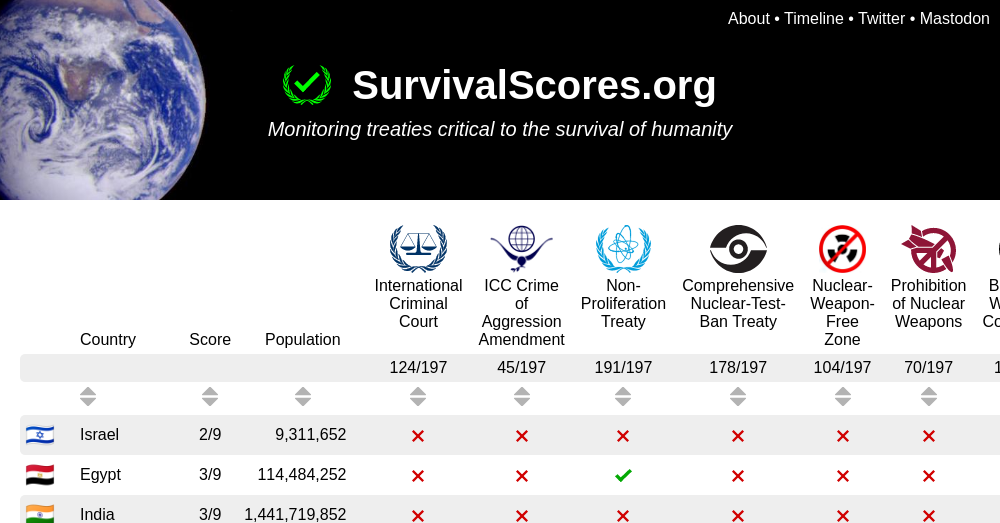
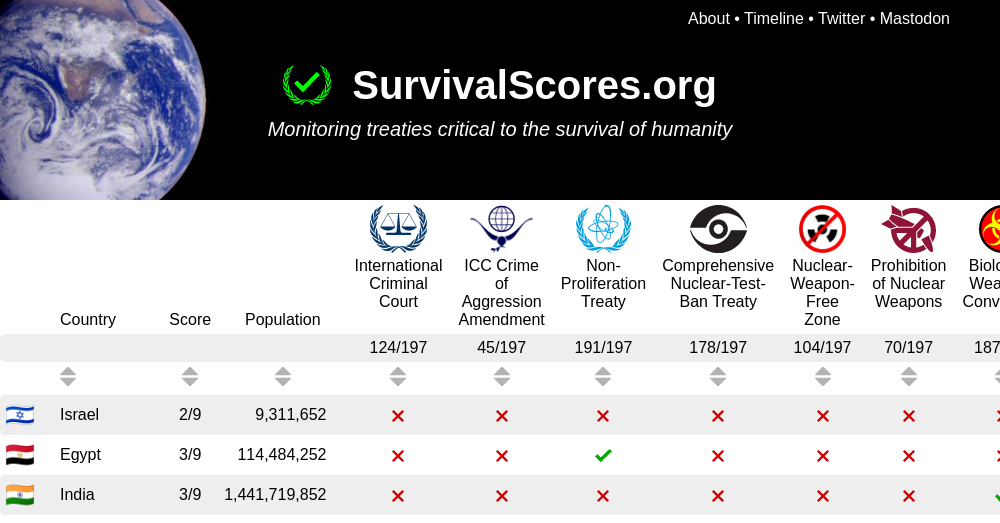
Deploying to gh-pages from @ arthuredelstein/survivalscores.org@348ec34a018b62b636337d9d978c01cf6f0f4265 🚀

diff --git a/index.html b/index.html
@@ -22,14 +22,25 @@ table {
   position: relative;
   border-collapse: collapse;
 }
+#title-background {
+  position: fixed;
+  left: 0px;
+  right: 0px;
+  top: 0px;
+  height: 200px;
+  background-color: black;
+  z-index: -100
+}
 .table-container {
   background-color: white;
   z-index: 20;
   position: relative;
-  top: 200px;
+  width: 100%;
+  margin: 0px;
 }
 table#treaties {
-  margin: 20px;
+  margin: 0px auto;
+  width: min(100vw, 1400px);
 }
 table#treaties tr:first {
   display: flex;
@@ -46,8 +57,10 @@ table#treaties tr:first {
   vertical-align: middle;
 }
 .footer {
-  margin: 30px;
+  margin: 30px auto;
   line-height: 1.5em;
+  max-width: 1400px;
+  padding: 10px;
 }
 .footer ul {
   padding-top: 0px;
@@ -73,11 +86,10 @@ table#treaties tr:first {
   background-size: 450px;
   background-repeat: no-repeat;
   background-color: black;
-  left: 0px;
-  right: 0px;
+  left: 0vw;
   top: 0px;
+/*  width: 100vw;*/
   height: 180px;
-  position: fixed;
 }
 .title a {
   color: white;
@@ -105,7 +117,7 @@ table#treaties tr:first {
 .links {
   position: absolute;
   top: 10px;
-  right: 10px;
+  right: 50px;
   color: white;
 }
 .links a:link {
@@ -123,7 +135,7 @@ table#treaties tr:first {
   font-style: normal;
   position: absolute;
   bottom: 10px;
-  right: 10px;
+  right: 50px;
 }
 #logo {
   padding-right: 10px;
@@ -139,7 +151,6 @@ img.arrow-icon {
   opacity: 100%;
   z-index: 2;
   position: relative;
-  top: 200px;
   display: flex;
   flex-direction: row;
   justify-content: center;
@@ -156,6 +167,10 @@ img.arrow-icon {
   opacity: 100%;
   background-color: white;
   padding: 20px;
+}
+#timeline-heading {
+  text-align: left;
+  padding-left: 20px;
 }td {
   text-align: center;
   margin: 0px;
@@ -264,7 +279,7 @@ img.treaty-logo {
   height: 48px;
 }
 </style>
-    <script type="module">const dataDate = new Date('Sat Aug 17 2024 18:07:07 GMT+0000 (Coordinated Universal Time)');
+    <script type="module">const dataDate = new Date('Sat Aug 17 2024 20:06:30 GMT+0000 (Coordinated Universal Time)');
 import { polyfillCountryFlagEmojis } from './country-flag-emoji-polyfill/country-flag-emoji-polyfill.js'
 
 // Initially will be sorted by population
@@ -332,13 +347,16 @@ window.addEventListener('DOMContentLoaded', (e) => {
 </script>
   </head>
   <body>
-    <div class="title">
-      <div class="title-group">
-        <div class="title-text"><a href="/"><img id="logo" alt="SurvivalScores.org logo" src="./images/survivalscores_logo.svg"> SurvivalScores.org</a></div>
-        <div class="tagline-text">Monitoring treaties critical to the survival of humanity</div>
+    <div id="title-background"></div>
+    <div class="title-container">
+      <div class="title" id="title">
+        <div class="title-group">
+          <div class="title-text"><a href="/"><img id="logo" alt="SurvivalScores.org logo" src="./images/survivalscores_logo.svg"> SurvivalScores.org</a></div>
+          <div class="tagline-text">Monitoring treaties critical to the survival of humanity</div>
+        </div>
+        <div id="updated"></div>
+        <div class="links"><a href="./about">About</a> &#x2022; <a href="/timeline.html">Timeline</a> &#x2022; <a href="https://twitter.com/survivalscores">Twitter</a> &#x2022; <a rel="me" href="https://mastodon.social/@survivalscores">Mastodon</a></div>
       </div>
-      <div id="updated"></div>
-      <div class="links"><a href="./about">About</a> &#x2022; <a href="/timeline.html">Timeline</a> &#x2022; <a href="https://twitter.com/survivalscores">Twitter</a> &#x2022; <a rel="me" href="https://mastodon.social/@survivalscores">Mastodon</a></div>
     </div>
     <div class="table-container">
       <table id="treaties">
@@ -3370,7 +3388,7 @@ window.addEventListener('DOMContentLoaded', (e) => {
         <h3><b>Sources</b></h3>
         <p>Data presented in this table were retrieved from live databases maintained by the United Nations:</p>
         <ul><li><a href="https://treaties.unoda.org/">Disarmament Treaties Database</a>, United Nations Office for Disarmament Affairs</li><li><a href="https://treaties.un.org/Pages/ParticipationStatus.aspx">Multilateral Treaties Deposited with the Secretary-General</a>, United Nations, New York</li><li><a href="https://data.un.org/">UNdata</a>, United Nations Statistics Division</li></ul>
-        <p>Data retrieved at 2024-08-17T18:07:07.072Z</p>
+        <p>Data retrieved at 2024-08-17T20:06:30.041Z</p>
         <p>Source code for this project is <a href="https://github.com/arthuredelstein/survivalscores.org">available on GitHub</a>.</p>
         <br>
       </div>

diff --git a/timeline.html b/timeline.html
@@ -22,14 +22,25 @@ table {
   position: relative;
   border-collapse: collapse;
 }
+#title-background {
+  position: fixed;
+  left: 0px;
+  right: 0px;
+  top: 0px;
+  height: 200px;
+  background-color: black;
+  z-index: -100
+}
 .table-container {
   background-color: white;
   z-index: 20;
   position: relative;
-  top: 200px;
+  width: 100%;
+  margin: 0px;
 }
 table#treaties {
-  margin: 20px;
+  margin: 0px auto;
+  width: min(100vw, 1400px);
 }
 table#treaties tr:first {
   display: flex;
@@ -46,8 +57,10 @@ table#treaties tr:first {
   vertical-align: middle;
 }
 .footer {
-  margin: 30px;
+  margin: 30px auto;
   line-height: 1.5em;
+  max-width: 1400px;
+  padding: 10px;
 }
 .footer ul {
   padding-top: 0px;
@@ -73,11 +86,10 @@ table#treaties tr:first {
   background-size: 450px;
   background-repeat: no-repeat;
   background-color: black;
-  left: 0px;
-  right: 0px;
+  left: 0vw;
   top: 0px;
+/*  width: 100vw;*/
   height: 180px;
-  position: fixed;
 }
 .title a {
   color: white;
@@ -105,7 +117,7 @@ table#treaties tr:first {
 .links {
   position: absolute;
   top: 10px;
-  right: 10px;
+  right: 50px;
   color: white;
 }
 .links a:link {
@@ -123,7 +135,7 @@ table#treaties tr:first {
   font-style: normal;
   position: absolute;
   bottom: 10px;
-  right: 10px;
+  right: 50px;
 }
 #logo {
   padding-right: 10px;
@@ -139,7 +151,6 @@ img.arrow-icon {
   opacity: 100%;
   z-index: 2;
   position: relative;
-  top: 200px;
   display: flex;
   flex-direction: row;
   justify-content: center;
@@ -156,6 +167,10 @@ img.arrow-icon {
   opacity: 100%;
   background-color: white;
   padding: 20px;
+}
+#timeline-heading {
+  text-align: left;
+  padding-left: 20px;
 }
 td {
   font-size: 22px;
@@ -194,20 +209,23 @@ h1 {
   text-align: left;
   padding-top: 20px;
 }</style>
-    <script type="module">const dataDate = new Date('Sat Aug 17 2024 18:07:07 GMT+0000 (Coordinated Universal Time)');
+    <script type="module">const dataDate = new Date('Sat Aug 17 2024 20:06:30 GMT+0000 (Coordinated Universal Time)');
 </script>
   </head>
   <body>
-    <div class="title">
-      <div class="title-group">
-        <div class="title-text"><a href="/"><img id="logo" alt="SurvivalScores.org logo" src="./images/survivalscores_logo.svg"> SurvivalScores.org</a></div>
-        <div class="tagline-text">Monitoring treaties critical to the survival of humanity</div>
+    <div id="title-background"></div>
+    <div class="title-container">
+      <div class="title" id="title">
+        <div class="title-group">
+          <div class="title-text"><a href="/"><img id="logo" alt="SurvivalScores.org logo" src="./images/survivalscores_logo.svg"> SurvivalScores.org</a></div>
+          <div class="tagline-text">Monitoring treaties critical to the survival of humanity</div>
+        </div>
+        <div id="updated"></div>
+        <div class="links"><a href="./about">About</a> &#x2022; <a href="/timeline.html">Timeline</a> &#x2022; <a href="https://twitter.com/survivalscores">Twitter</a> &#x2022; <a rel="me" href="https://mastodon.social/@survivalscores">Mastodon</a></div>
       </div>
-      <div id="updated"></div>
-      <div class="links"><a href="./about">About</a> &#x2022; <a href="/timeline.html">Timeline</a> &#x2022; <a href="https://twitter.com/survivalscores">Twitter</a> &#x2022; <a rel="me" href="https://mastodon.social/@survivalscores">Mastodon</a></div>
     </div>
     <div class="table-container">
-      <h1>Survival Treaty Timeline</h1>
+      <h1 id="timeline-heading">Survival Treaty Timeline</h1>
       <table id="timeline-table">
         <tr>
           <td class="date">2024-07-12</td>
@@ -16932,7 +16950,7 @@ h1 {
         <h3><b>Sources</b></h3>
         <p>Data presented in this table were retrieved from live databases maintained by the United Nations:</p>
         <ul><li><a href="https://treaties.unoda.org/">Disarmament Treaties Database</a>, United Nations Office for Disarmament Affairs</li><li><a href="https://treaties.un.org/Pages/ParticipationStatus.aspx">Multilateral Treaties Deposited with the Secretary-General</a>, United Nations, New York</li><li><a href="https://data.un.org/">UNdata</a>, United Nations Statistics Division</li></ul>
-        <p>Data retrieved at 2024-08-17T18:07:07.072Z</p>
+        <p>Data retrieved at 2024-08-17T20:06:30.041Z</p>
         <p>Source code for this project is <a href="https://github.com/arthuredelstein/survivalscores.org">available on GitHub</a>.</p>
         <br>
       </div>

diff --git a/about.html b/about.html
@@ -22,14 +22,25 @@ table {
   position: relative;
   border-collapse: collapse;
 }
+#title-background {
+  position: fixed;
+  left: 0px;
+  right: 0px;
+  top: 0px;
+  height: 200px;
+  background-color: black;
+  z-index: -100
+}
 .table-container {
   background-color: white;
   z-index: 20;
   position: relative;
-  top: 200px;
+  width: 100%;
+  margin: 0px;
 }
 table#treaties {
-  margin: 20px;
+  margin: 0px auto;
+  width: min(100vw, 1400px);
 }
 table#treaties tr:first {
   display: flex;
@@ -46,8 +57,10 @@ table#treaties tr:first {
   vertical-align: middle;
 }
 .footer {
-  margin: 30px;
+  margin: 30px auto;
   line-height: 1.5em;
+  max-width: 1400px;
+  padding: 10px;
 }
 .footer ul {
   padding-top: 0px;
@@ -73,11 +86,10 @@ table#treaties tr:first {
   background-size: 450px;
   background-repeat: no-repeat;
   background-color: black;
-  left: 0px;
-  right: 0px;
+  left: 0vw;
   top: 0px;
+/*  width: 100vw;*/
   height: 180px;
-  position: fixed;
 }
 .title a {
   color: white;
@@ -105,7 +117,7 @@ table#treaties tr:first {
 .links {
   position: absolute;
   top: 10px;
-  right: 10px;
+  right: 50px;
   color: white;
 }
 .links a:link {
@@ -123,7 +135,7 @@ table#treaties tr:first {
   font-style: normal;
   position: absolute;
   bottom: 10px;
-  right: 10px;
+  right: 50px;
 }
 #logo {
   padding-right: 10px;
@@ -139,7 +151,6 @@ img.arrow-icon {
   opacity: 100%;
   z-index: 2;
   position: relative;
-  top: 200px;
   display: flex;
   flex-direction: row;
   justify-content: center;
@@ -156,17 +167,24 @@ img.arrow-icon {
   opacity: 100%;
   background-color: white;
   padding: 20px;
+}
+#timeline-heading {
+  text-align: left;
+  padding-left: 20px;
 }</style>
     <script type="module"></script>
   </head>
   <body>
-    <div class="title">
-      <div class="title-group">
-        <div class="title-text"><a href="/"><img id="logo" alt="SurvivalScores.org logo" src="./images/survivalscores_logo.svg"> SurvivalScores.org</a></div>
-        <div class="tagline-text">Monitoring treaties critical to the survival of humanity</div>
+    <div id="title-background"></div>
+    <div class="title-container">
+      <div class="title" id="title">
+        <div class="title-group">
+          <div class="title-text"><a href="/"><img id="logo" alt="SurvivalScores.org logo" src="./images/survivalscores_logo.svg"> SurvivalScores.org</a></div>
+          <div class="tagline-text">Monitoring treaties critical to the survival of humanity</div>
+        </div>
+        <div id="updated"></div>
+        <div class="links"><a href="./about">About</a> &#x2022; <a href="/timeline.html">Timeline</a> &#x2022; <a href="https://twitter.com/survivalscores">Twitter</a> &#x2022; <a rel="me" href="https://mastodon.social/@survivalscores">Mastodon</a></div>
       </div>
-      <div id="updated"></div>
-      <div class="links"><a href="./about">About</a> &#x2022; <a href="/timeline.html">Timeline</a> &#x2022; <a href="https://twitter.com/survivalscores">Twitter</a> &#x2022; <a rel="me" href="https://mastodon.social/@survivalscores">Mastodon</a></div>
     </div>
     <div class="copy">
       <div class="markdown-container">
